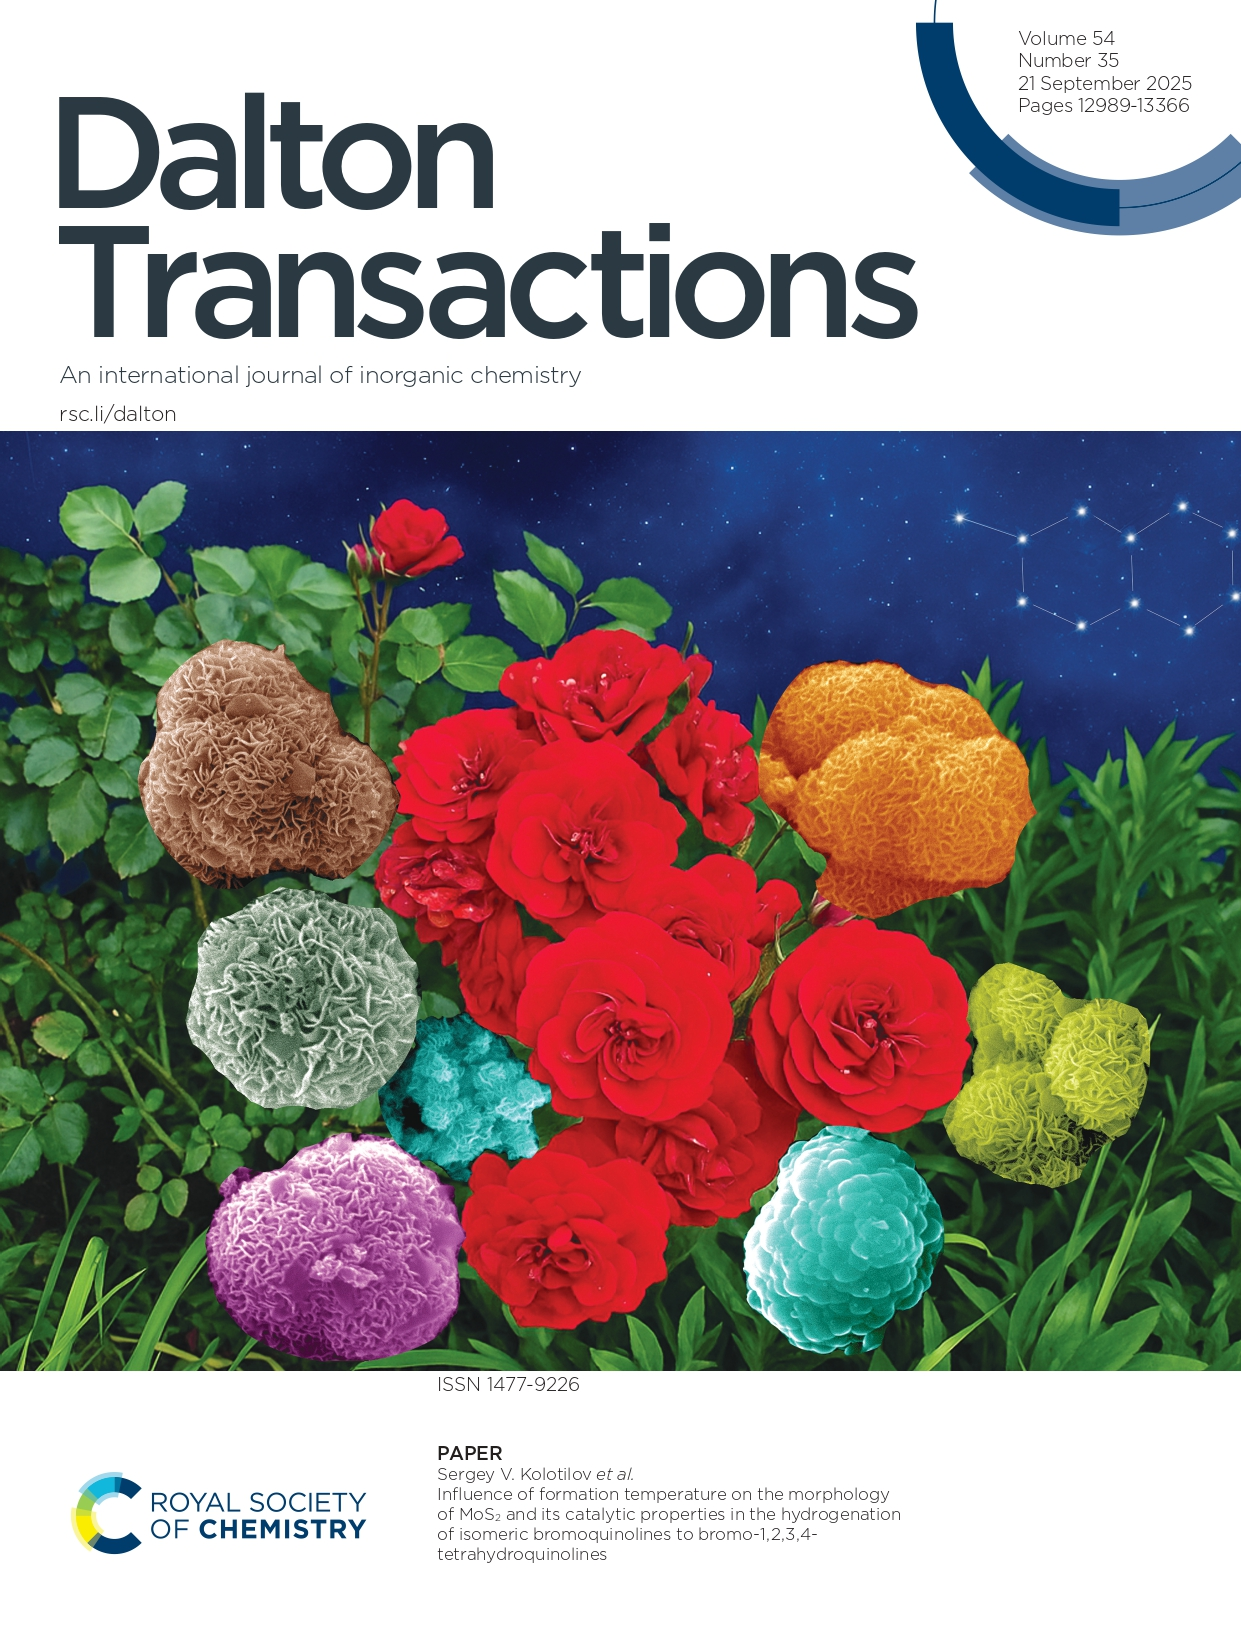
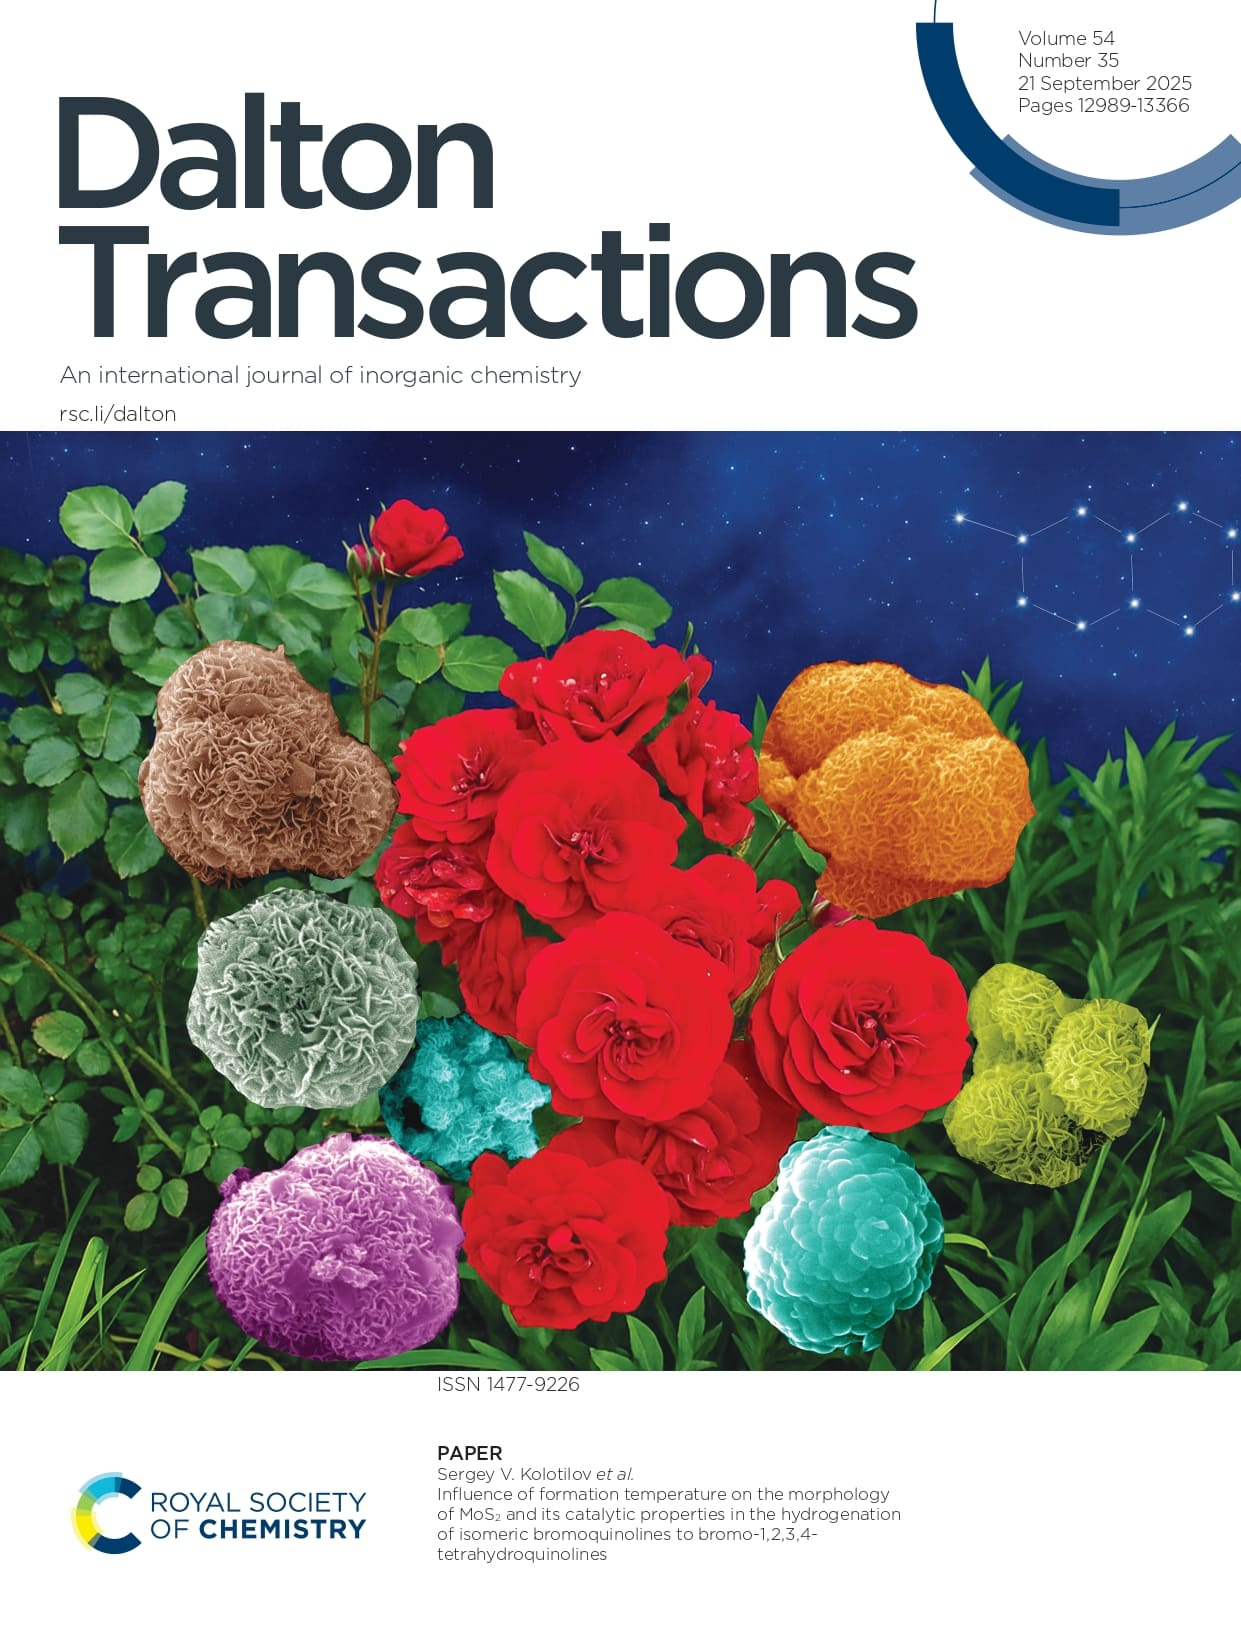
update

diff --git a/index.html b/index.html
@@ -138,7 +138,7 @@
     <div class="pub-list reveal-stagger">
       <div class="pub-item">
         <div class="pub-cover patent-cover">
-          <i class="fas fa-award"></i>
+          <img src="images/patent.jpg" alt="Patent cover">
         </div>
         <div class="pub-content">
           <div class="pub-journal">Patent <span class="pub-year-badge">2025</span></div>
